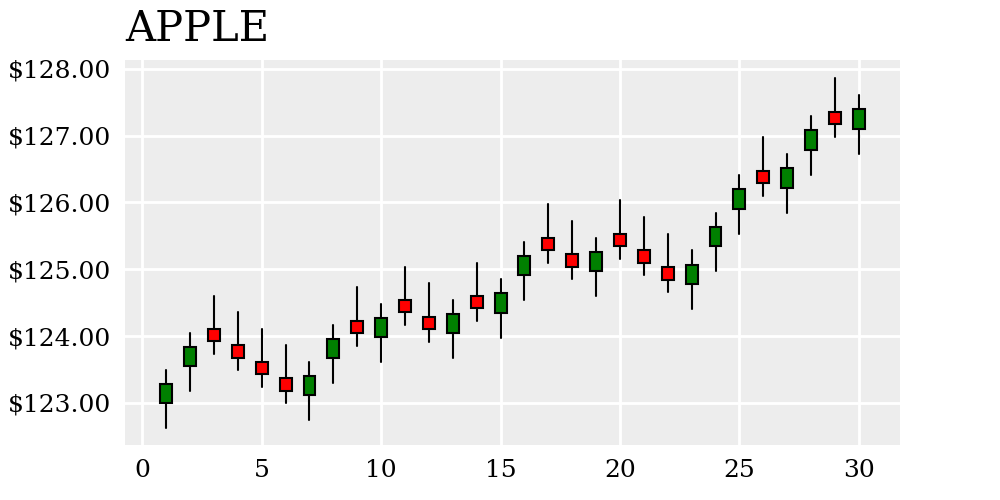
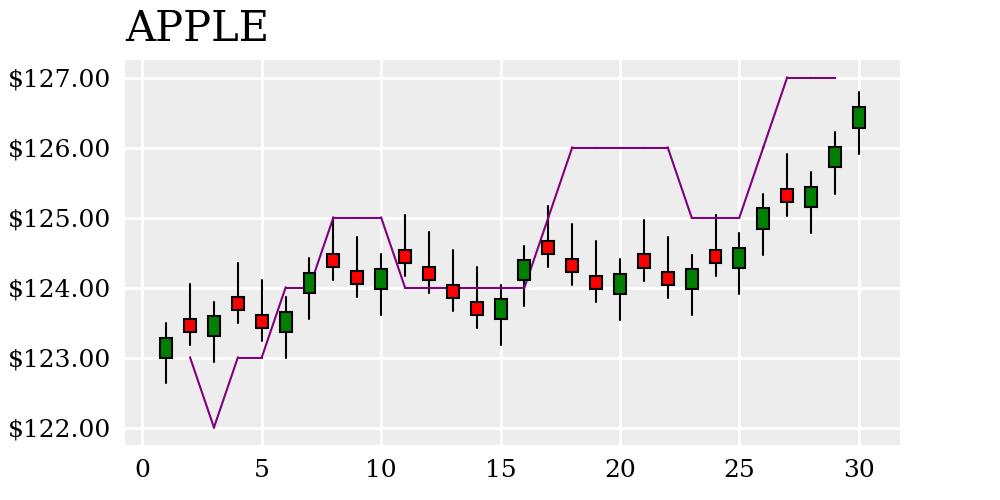
Add SMA indicator

diff --git a/rest.py b/rest.py
@@ -5,6 +5,7 @@ from datetime import datetime
 import numpy as numpy
 import matplotlib as mpl
 import matplotlib.pyplot as plt
+from math import floor
 
 # Specify which secret to read
 SECRET_TYPE = 'sandbox_secret.txt'
@@ -68,6 +69,16 @@ def draw_all_candlesticks(axis, data, color_up='green', color_down='red'):
         axis = draw_candlestick(axis, data[day], color_up, color_down)
     return axis
 
+# Draw a point(axis, data)
+def draw_sma(axis, data, color='purple'):
+    for i, datum in enumerate(data):
+        if i > 2:
+            axis.plot((i-1, i), (int(data[i-1]), int(datum)), linewidth=1.5, color=color, zorder=2)
+    return axis
+
+# Get SMA
+sma = fhub_client.technical_indicator(symbol=ticker, resolution='D', _from=1591100000, to=1593572249, indicator='sma', indicator_fields={"timeperiod": 1})
+
 # Create candlestick chart
 mpl.rcParams['font.family'] = 'serif'
 mpl.rcParams['font.size'] = 18
@@ -87,6 +98,9 @@ ax.grid(linestyle='-', linewidth=2, color='white', zorder=1)
 
 # Draw candlesticks
 ax = draw_all_candlesticks(ax, data)
+
+# Draw the SMA
+ax = draw_sma(ax, sma['sma'])
 
 # Add dollar signs
 formatter = mpl.ticker.FormatStrFormatter('$%.2f')
